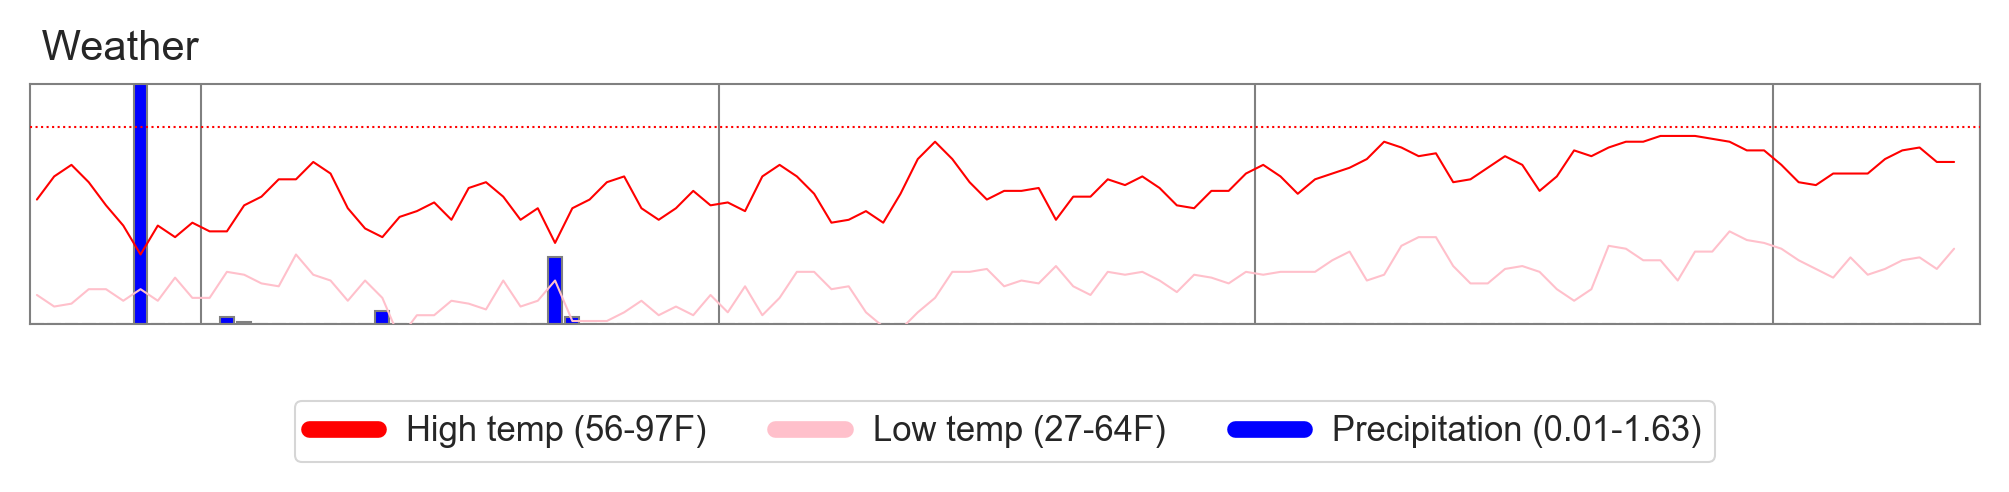
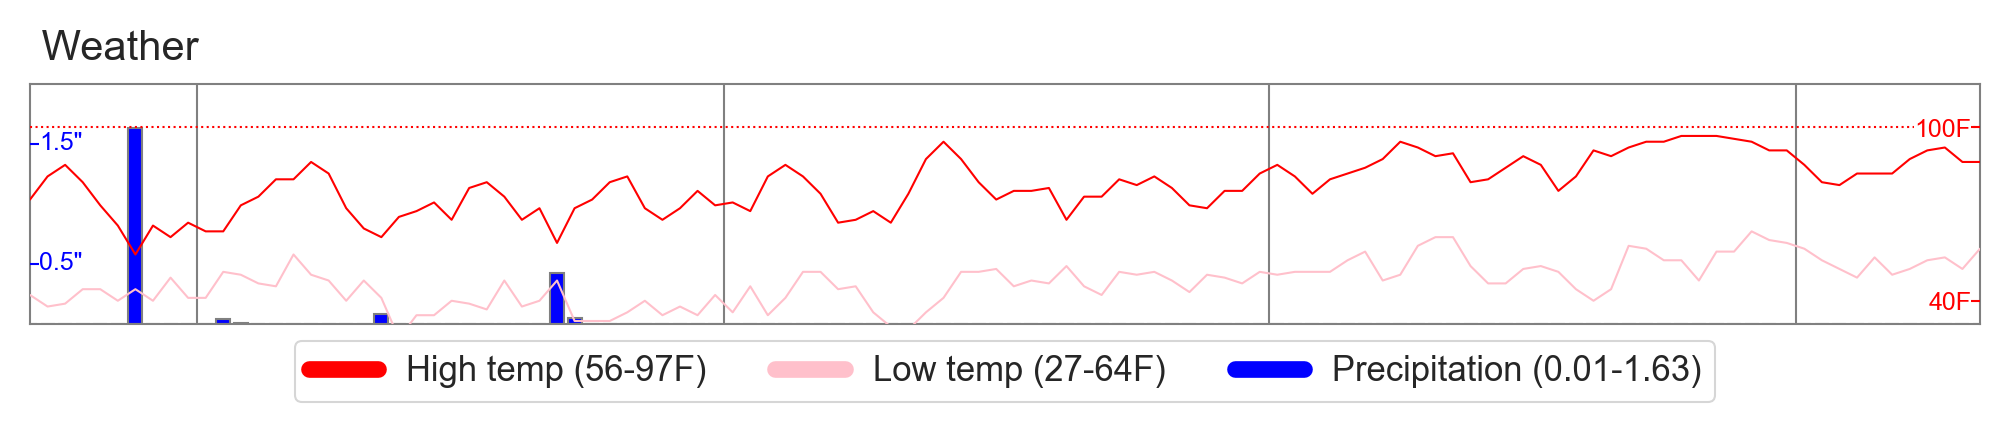
Bugs, graph cleanup
Fixed a couple bugs and cleaned up how the graph looks

diff --git a/TRBLSummarizer/TRBLSummarizer.py b/TRBLSummarizer/TRBLSummarizer.py
@@ -196,7 +196,7 @@ def init_logging():
 def log_error(msg: str):
     if not being_deployed_to_streamlit:
         with error_file.open("a") as f:
-            f.write("{my_time()}: " + msg + '\n')
+            f.write(f"{my_time()}: " + msg + "\n")
 
 def show_error(msg: str):
     st.error("Whoops! " + msg + "! This may not work correctly.")
@@ -559,7 +559,7 @@ def get_date_range(df:pd.DataFrame, graphing_all_sites:bool) -> dict:
 def set_global_theme():
     #https://matplotlib.org/stable/tutorials/introductory/customizing.html#matplotlib-rcparams
     line_color = 'gray'
-    line_width = '0.5'
+    line_width = '0.75'
     custom_params = {'figure.dpi':'300', 
                      'font.family':'Arial', #'sans-serif'
                      'font.size':'12',
@@ -815,6 +815,12 @@ def save_figure(site:str, graph_type:str, delete_only=False):
         #maybe check the last axis?
         if graph_type == graph_weather:
             ax = plt.gcf().get_axes()[0] #in the weather graph, the labels are in the first axis
+            legend = ax.get_legend()
+            bb = legend.get_bbox_to_anchor().transformed(ax.transAxes.inverted())
+            yOffset = 0.25
+            bb.y0 += yOffset
+            bb.y1 += yOffset
+            legend.set_bbox_to_anchor(bb, transform = ax.transAxes)
         else:
             ax = plt.gca() #in the other graphs, it's in the last axis
         #Go find the month labels and remove them
@@ -825,6 +831,9 @@ def save_figure(site:str, graph_type:str, delete_only=False):
         filename = site + ' - ' + graph_type + ' clean.png'
         figure_path = figure_dir / filename
         plt.savefig(figure_path, dpi='figure', bbox_inches='tight')    
+    else:
+        #Write an empty file if there's no data so that we can tell
+        Image.new(mode="RGB", size=(1, 1)).save(figure_path)
 
     plt.close()
 
@@ -966,7 +975,6 @@ def output_graph(site:str, graph_type:str, save_files:bool, make_all_graphs:bool
             save_figure(site, graph_type)
     else:
         #No data, so show a message instead. 
-        #TODO write an empty file in this case
         save_figure(site, graph_type, delete_only=True)
         site_name_text = '<p style="font-family:sans-serif; color:Black; font-size: 16px;"><b>{}</b></p>'.format(graph_type)
         st.write(site_name_text, unsafe_allow_html=True)
@@ -1057,7 +1065,7 @@ def add_weather_graph_yticks(ax1:plt.axes, ax2:plt.axes, max_x:int, wg_colors:di
     tick2y = temp_min+8
 
     #blank out part of the 100F line so the label is readable
-    rect = Rectangle((max_x-label_xoffset,tick1y-5),-3.25,10, facecolor='white', fill=True, edgecolor='none', zorder=2)
+    rect = Rectangle((max_x-label_xoffset,tick1y-5),-2,10, facecolor='white', fill=True, edgecolor='none', zorder=2)
     ax2.add_patch(rect)
     
     #add tick label and ticks
@@ -1116,7 +1124,7 @@ def create_weather_graph(weather_by_type:dict, site_name:str) -> plt.figure:
         for wt in weather_cols:
             w = weather_by_type[wt]
             if wt == weather_prcp:
-                ax1.bar(w.index.values.astype(str), w['value'], color = wg_colors['prcp'])
+                ax1.bar(w.index.values.astype(str), w['value'], color = wg_colors['prcp'], linewidth=0)
             elif wt == weather_tmax:
                 ax2.plot(w.index.values.astype(str), w['value'], color = wg_colors['high'])
             else: #TMIN
